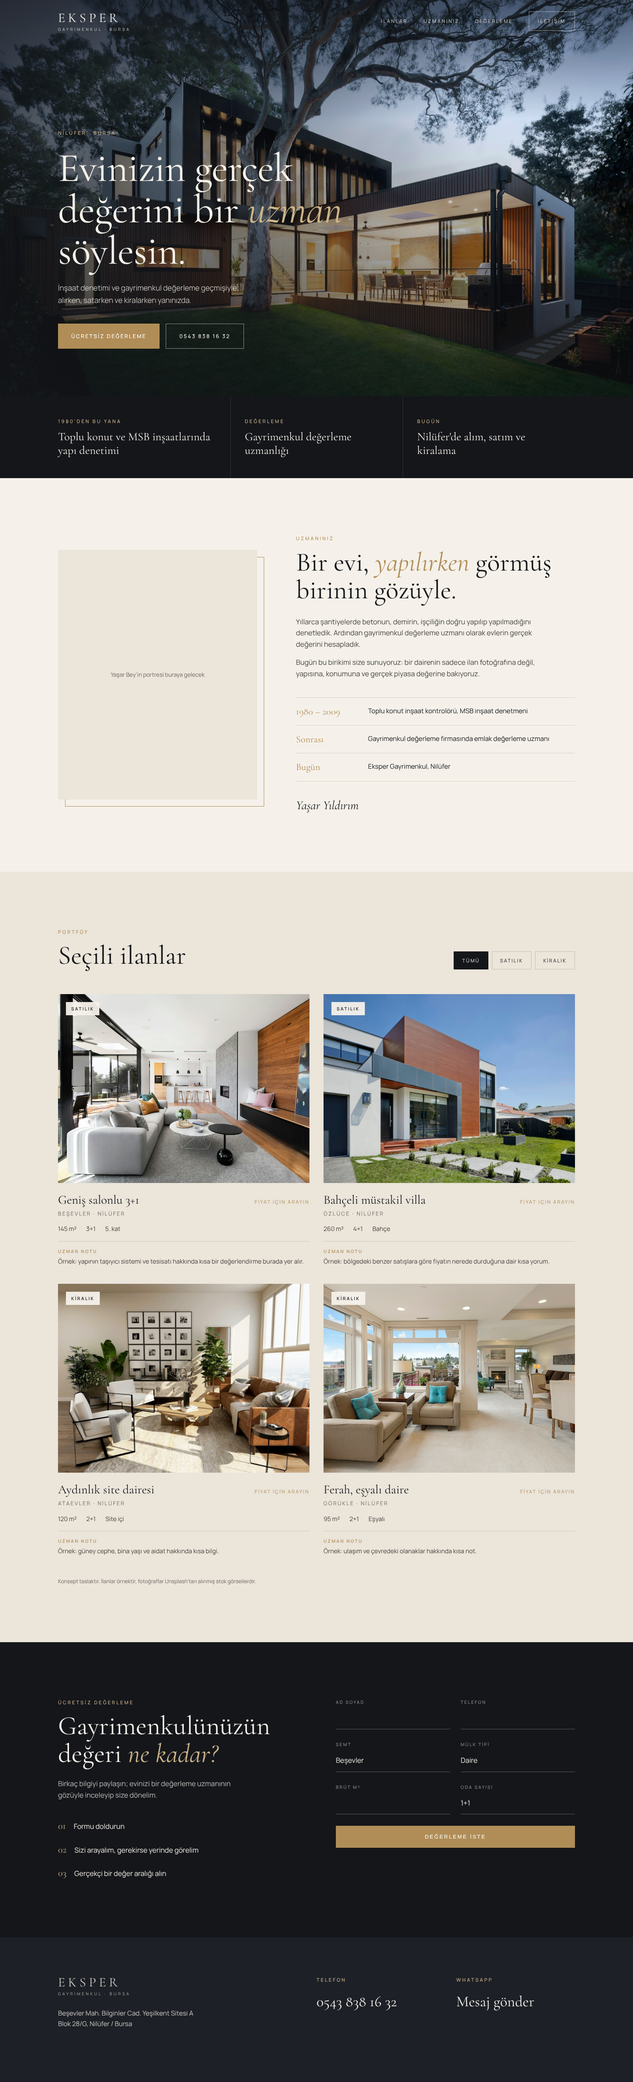
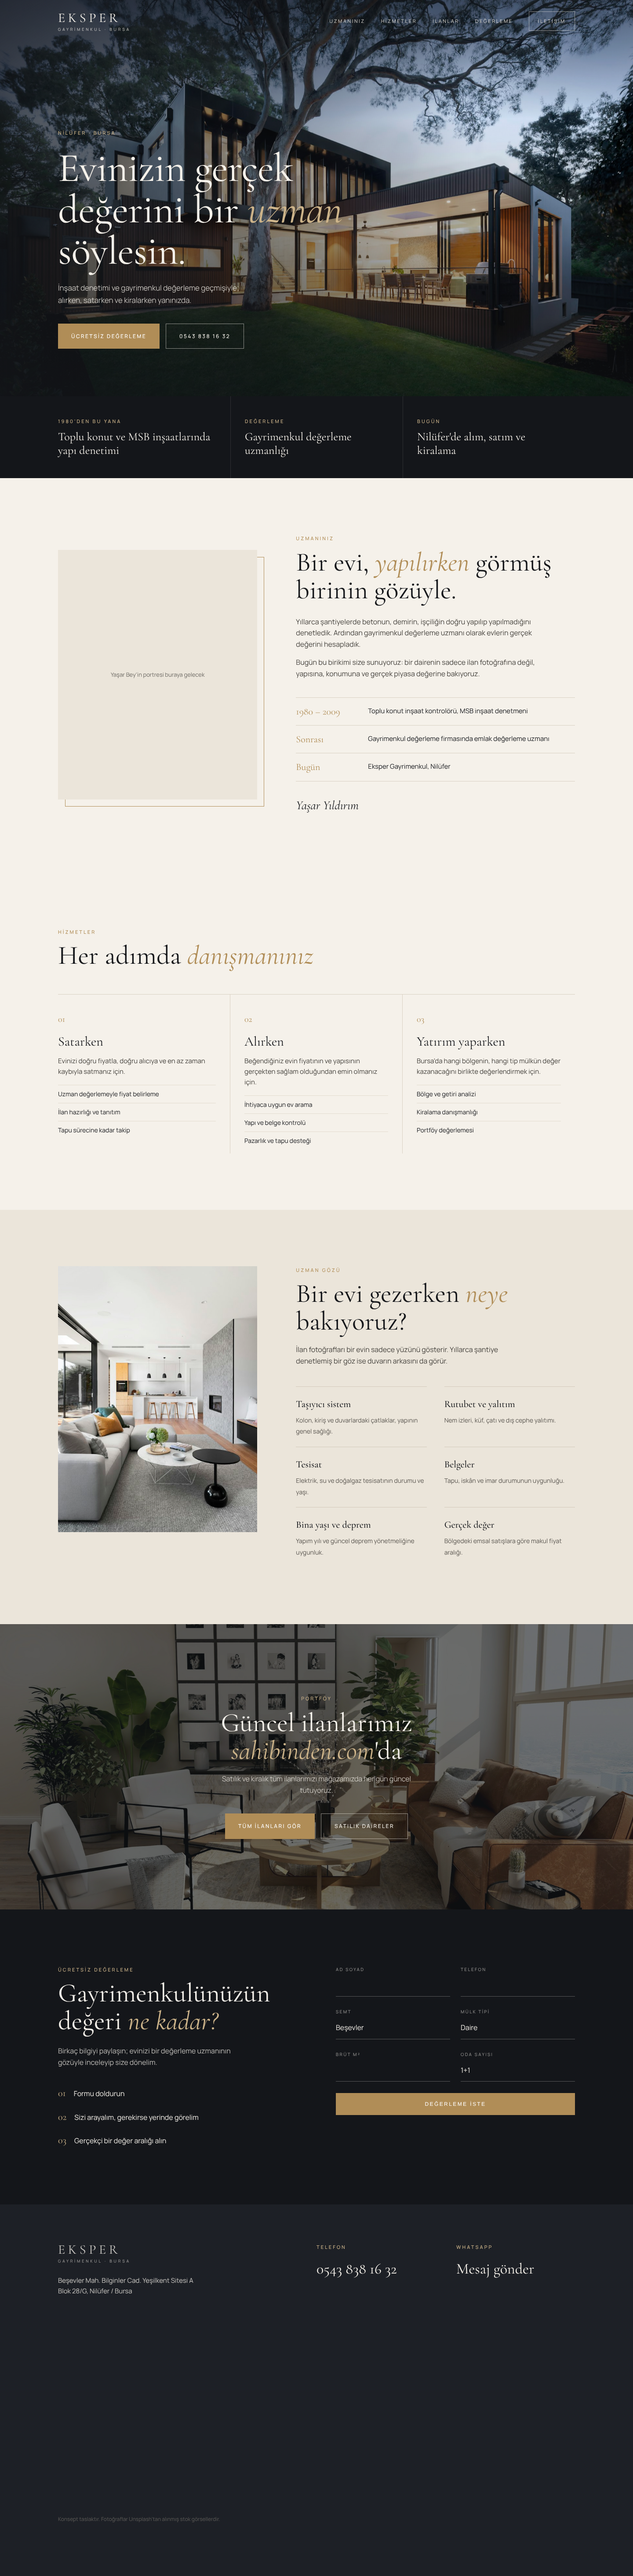
Bilgilendirme odaklı yapı: hizmetler, uzman gözü, sahibinden portföy bağlantısı, harita
Claude-Session: https://claude.ai/code/session_01RpRroQoF4BRD7ftTEzAbsX

diff --git a/index.html b/index.html
@@ -85,24 +85,40 @@
   .timeline .t { font-size: 15px; }
   .sign { font-family: var(--serif); font-style: italic; font-size: 28px; margin-top: 32px; }
 
-  /* Listings */
-  .listings { background: var(--cream-2); }
-  .filters { display: flex; gap: 8px; flex-wrap: wrap; }
-  .filters button { font: inherit; font-size: 11px; letter-spacing: .2em; text-transform: uppercase; padding: 11px 18px; background: transparent; border: 1px solid #c9bfae; color: var(--ink); cursor: pointer; transition: all .3s; }
-  .filters button.on, .filters button:hover { background: var(--ink); border-color: var(--ink); color: var(--cream); }
-  .grid { display: grid; grid-template-columns: repeat(2, 1fr); gap: 40px 32px; }
-  .card { cursor: pointer; }
-  .card .ph { overflow: hidden; aspect-ratio: 4/3; position: relative; }
-  .card img { width: 100%; height: 100%; object-fit: cover; transition: transform 1.2s cubic-bezier(.2,.7,.2,1); }
-  .card:hover img { transform: scale(1.05); }
-  .tag { position: absolute; top: 18px; left: 18px; background: rgba(245,241,234,.95); padding: 7px 12px; font-size: 10px; letter-spacing: .24em; text-transform: uppercase; font-weight: 600; }
-  .card .meta { display: flex; justify-content: space-between; align-items: baseline; margin-top: 22px; gap: 16px; }
-  .card h3 { font-family: var(--serif); font-weight: 400; font-size: 28px; line-height: 1.15; }
-  .card .price { font-size: 11px; letter-spacing: .2em; text-transform: uppercase; color: var(--gold); white-space: nowrap; }
-  .card .loc { color: var(--muted); font-size: 12px; letter-spacing: .2em; text-transform: uppercase; margin-top: 6px; }
-  .card .specs { display: flex; gap: 22px; margin-top: 14px; font-size: 14px; color: #45423d; }
-  .note { margin-top: 16px; padding-top: 14px; border-top: 1px solid #d3cabb; font-size: 14px; color: #45423d; }
-  .note b { color: var(--gold); font-weight: 600; font-size: 10px; letter-spacing: .24em; text-transform: uppercase; display: block; margin-bottom: 4px; }
+  /* Services */
+  .services .grid3 { display: grid; grid-template-columns: repeat(3, 1fr); border-top: 1px solid #d9d1c3; }
+  .svc { padding: 40px 32px 8px 0; border-right: 1px solid #d9d1c3; }
+  .svc + .svc { padding-left: 32px; }
+  .svc:last-child { border-right: 0; }
+  .svc .n { font-family: var(--serif); color: var(--gold); font-size: 20px; }
+  .svc h3 { font-family: var(--serif); font-weight: 400; font-size: 30px; line-height: 1.15; margin: 18px 0 14px; }
+  .svc p { color: #45423d; font-size: 15px; }
+  .svc ul { margin-top: 18px; }
+  .svc li { list-style: none; font-size: 14px; padding: 9px 0; border-top: 1px solid #e3dccf; }
+
+  /* Expert eye */
+  .eye { background: var(--cream-2); }
+  .eye .wrap { display: grid; grid-template-columns: 5fr 7fr; gap: 88px; align-items: start; }
+  .eye .photo { aspect-ratio: 3/4; overflow: hidden; position: sticky; top: 40px; }
+  .eye .photo img { width: 100%; height: 100%; object-fit: cover; }
+  .eye .eyebrow { color: var(--gold); }
+  .eye h2 { margin: 14px 0 20px; }
+  .eye .lead { color: #45423d; max-width: 52ch; }
+  .checks { margin-top: 44px; display: grid; grid-template-columns: 1fr 1fr; gap: 0 40px; }
+  .checks div { padding: 22px 0; border-top: 1px solid #d3cabb; }
+  .checks b { display: block; font-family: var(--serif); font-weight: 500; font-size: 22px; margin-bottom: 6px; }
+  .checks span { font-size: 14px; color: #5a5650; }
+
+  /* Portfolio CTA */
+  .portfolio { position: relative; color: var(--cream); padding: 160px 0; overflow: hidden; text-align: center; }
+  .portfolio img { position: absolute; inset: 0; width: 100%; height: 100%; object-fit: cover; }
+  .portfolio::after { content: ""; position: absolute; inset: 0; background: rgba(20,22,26,.62); }
+  .portfolio .wrap { position: relative; z-index: 1; }
+  .portfolio .eyebrow { color: var(--gold-soft); }
+  .portfolio h2 { margin: 16px auto 20px; max-width: 18ch; }
+  .portfolio h2 em { color: var(--gold-soft); }
+  .portfolio p { max-width: 50ch; margin: 0 auto; opacity: .85; font-weight: 300; }
+  .portfolio .actions { justify-content: center; }
   .demo { margin-top: 48px; font-size: 12px; color: var(--muted); }
 
   /* Valuation */
@@ -130,6 +146,8 @@
   footer p, footer a { font-size: 15px; opacity: .8; }
   footer .big { font-family: var(--serif); font-size: 34px; opacity: 1; display: block; }
 
+  .map { grid-column: 1 / -1; margin-top: 56px; aspect-ratio: 21/7; border: 0; width: 100%; filter: grayscale(1) contrast(.95); }
+
   /* Mobile bar */
   .mbar { display: none; }
 
@@ -149,9 +167,16 @@
     .about .wrap, .valuation .wrap { grid-template-columns: 1fr; gap: 56px; }
     .portrait { max-width: 420px; }
     .timeline li { grid-template-columns: 1fr; gap: 2px; }
-    .grid { grid-template-columns: 1fr; }
+    .services .grid3 { grid-template-columns: 1fr; }
+    .svc, .svc + .svc { padding: 32px 0 8px; border-right: 0; border-bottom: 1px solid #d9d1c3; }
+    .eye .wrap { grid-template-columns: 1fr; gap: 48px; }
+    .eye .photo { position: static; aspect-ratio: 4/3; }
+    .checks { grid-template-columns: 1fr; }
+    .portfolio { padding: 112px 0; }
+    .map { aspect-ratio: 4/3; }
     form { grid-template-columns: 1fr; }
     footer .wrap { grid-template-columns: 1fr; }
+    footer .demo { grid-column: 1 / -1; }
     .btn { padding: 16px 22px; flex: 1 1 100%; justify-content: center; }
     .mbar { display: grid; grid-template-columns: 1fr 1fr; position: fixed; inset: auto 0 0 0; z-index: 20; }
     .mbar a { padding: 18px; text-align: center; font-size: 12px; letter-spacing: .2em; text-transform: uppercase; font-weight: 600; }
@@ -170,8 +195,9 @@
   <div class="wrap">
     <a href="#" class="logo"><b>EKSPER</b><span>GAYRİMENKUL · BURSA</span></a>
     <nav>
-      <a href="#ilanlar">İlanlar</a>
       <a href="#hakkimizda">Uzmanınız</a>
+      <a href="#hizmetler">Hizmetler</a>
+      <a href="#ilanlar">İlanlar</a>
       <a href="#degerleme">Değerleme</a>
       <a href="#iletisim" class="btn-line">İletişim</a>
     </nav>
@@ -217,47 +243,63 @@
   </div>
 </section>
 
-<section class="listings" id="ilanlar">
+<section class="services" id="hizmetler">
   <div class="wrap">
     <div class="sec-head">
-      <div><div class="eyebrow">Portföy</div><h2>Seçili ilanlar</h2></div>
-      <div class="filters">
-        <button class="on" data-f="all">Tümü</button>
-        <button data-f="satilik">Satılık</button>
-        <button data-f="kiralik">Kiralık</button>
+      <div><div class="eyebrow">Hizmetler</div><h2>Her adımda <em>danışmanınız</em></h2></div>
+    </div>
+    <div class="grid3">
+      <div class="svc rv">
+        <div class="n">01</div>
+        <h3>Satarken</h3>
+        <p>Evinizi doğru fiyatla, doğru alıcıya ve en az zaman kaybıyla satmanız için.</p>
+        <ul><li>Uzman değerlemeyle fiyat belirleme</li><li>İlan hazırlığı ve tanıtım</li><li>Tapu sürecine kadar takip</li></ul>
+      </div>
+      <div class="svc rv">
+        <div class="n">02</div>
+        <h3>Alırken</h3>
+        <p>Beğendiğiniz evin fiyatının ve yapısının gerçekten sağlam olduğundan emin olmanız için.</p>
+        <ul><li>İhtiyaca uygun ev arama</li><li>Yapı ve belge kontrolü</li><li>Pazarlık ve tapu desteği</li></ul>
+      </div>
+      <div class="svc rv">
+        <div class="n">03</div>
+        <h3>Yatırım yaparken</h3>
+        <p>Bursa'da hangi bölgenin, hangi tip mülkün değer kazanacağını birlikte değerlendirmek için.</p>
+        <ul><li>Bölge ve getiri analizi</li><li>Kiralama danışmanlığı</li><li>Portföy değerlemesi</li></ul>
       </div>
     </div>
-    <div class="grid">
-      <article class="card rv" data-t="satilik">
-        <div class="ph"><img src="https://images.unsplash.com/photo-1600607687939-ce8a6c25118c?w=1200&q=75&fm=jpg" alt="" loading="lazy"><span class="tag">Satılık</span></div>
-        <div class="meta"><h3>Geniş salonlu 3+1</h3><span class="price">Fiyat için arayın</span></div>
-        <div class="loc">Beşevler · Nilüfer</div>
-        <div class="specs"><span>145 m²</span><span>3+1</span><span>5. kat</span></div>
-        <div class="note"><b>Uzman notu</b>Örnek: yapının taşıyıcı sistemi ve tesisatı hakkında kısa bir değerlendirme burada yer alır.</div>
-      </article>
-      <article class="card rv" data-t="satilik">
-        <div class="ph"><img src="https://images.unsplash.com/photo-1600047509807-ba8f99d2cdde?w=1200&q=75&fm=jpg" alt="" loading="lazy"><span class="tag">Satılık</span></div>
-        <div class="meta"><h3>Bahçeli müstakil villa</h3><span class="price">Fiyat için arayın</span></div>
-        <div class="loc">Özlüce · Nilüfer</div>
-        <div class="specs"><span>260 m²</span><span>4+1</span><span>Bahçe</span></div>
-        <div class="note"><b>Uzman notu</b>Örnek: bölgedeki benzer satışlara göre fiyatın nerede durduğuna dair kısa yorum.</div>
-      </article>
-      <article class="card rv" data-t="kiralik">
-        <div class="ph"><img src="https://images.unsplash.com/photo-1600210492486-724fe5c67fb0?w=1200&q=75&fm=jpg" alt="" loading="lazy"><span class="tag">Kiralık</span></div>
-        <div class="meta"><h3>Aydınlık site dairesi</h3><span class="price">Fiyat için arayın</span></div>
-        <div class="loc">Ataevler · Nilüfer</div>
-        <div class="specs"><span>120 m²</span><span>2+1</span><span>Site içi</span></div>
-        <div class="note"><b>Uzman notu</b>Örnek: güney cephe, bina yaşı ve aidat hakkında kısa bilgi.</div>
-      </article>
-      <article class="card rv" data-t="kiralik">
-        <div class="ph"><img src="https://images.unsplash.com/photo-1560448204-e02f11c3d0e2?w=1200&q=75&fm=jpg" alt="" loading="lazy"><span class="tag">Kiralık</span></div>
-        <div class="meta"><h3>Ferah, eşyalı daire</h3><span class="price">Fiyat için arayın</span></div>
-        <div class="loc">Görükle · Nilüfer</div>
-        <div class="specs"><span>95 m²</span><span>2+1</span><span>Eşyalı</span></div>
-        <div class="note"><b>Uzman notu</b>Örnek: ulaşım ve çevredeki olanaklar hakkında kısa not.</div>
-      </article>
+  </div>
+</section>
+
+<section class="eye">
+  <div class="wrap">
+    <div class="photo rv"><img src="https://images.unsplash.com/photo-1600607687939-ce8a6c25118c?w=1200&q=75&fm=jpg" alt="" loading="lazy"></div>
+    <div class="rv">
+      <div class="eyebrow">Uzman gözü</div>
+      <h2>Bir evi gezerken <em>neye</em> bakıyoruz?</h2>
+      <p class="lead">İlan fotoğrafları bir evin sadece yüzünü gösterir. Yıllarca şantiye denetlemiş bir göz ise duvarın arkasını da görür.</p>
+      <div class="checks">
+        <div><b>Taşıyıcı sistem</b><span>Kolon, kiriş ve duvarlardaki çatlaklar, yapının genel sağlığı.</span></div>
+        <div><b>Rutubet ve yalıtım</b><span>Nem izleri, küf, çatı ve dış cephe yalıtımı.</span></div>
+        <div><b>Tesisat</b><span>Elektrik, su ve doğalgaz tesisatının durumu ve yaşı.</span></div>
+        <div><b>Belgeler</b><span>Tapu, iskân ve imar durumunun uygunluğu.</span></div>
+        <div><b>Bina yaşı ve deprem</b><span>Yapım yılı ve güncel deprem yönetmeliğine uygunluk.</span></div>
+        <div><b>Gerçek değer</b><span>Bölgedeki emsal satışlara göre makul fiyat aralığı.</span></div>
+      </div>
     </div>
-    <p class="demo">Konsept taslaktır. İlanlar örnektir, fotoğraflar Unsplash'tan alınmış stok görsellerdir.</p>
+  </div>
+</section>
+
+<section class="portfolio" id="ilanlar">
+  <img src="https://images.unsplash.com/photo-1600210492486-724fe5c67fb0?w=2000&q=75&fm=jpg" alt="" loading="lazy">
+  <div class="wrap rv">
+    <div class="eyebrow">Portföy</div>
+    <h2>Güncel ilanlarımız <em>sahibinden.com</em>'da</h2>
+    <p>Satılık ve kiralık tüm ilanlarımızı mağazamızda her gün güncel tutuyoruz.</p>
+    <div class="actions">
+      <a href="https://bursaeksperemlak.sahibinden.com/emlak?sorting=date_desc" target="_blank" rel="noopener" class="btn btn-gold">Tüm İlanları Gör</a>
+      <a href="https://bursaeksperemlak.sahibinden.com/satilik-daire?sorting=storeShowcase" target="_blank" rel="noopener" class="btn btn-ghost">Satılık Daireler</a>
+    </div>
   </div>
 </section>
 
@@ -294,6 +336,8 @@
     <div><span class="eyebrow">Telefon</span><a class="big" href="tel:+905438381632">0543 838 16 32</a></div>
     <div><span class="eyebrow">WhatsApp</span><a class="big" href="https://wa.me/905438381632">Mesaj gönder</a></div>
   </div>
+  <div class="wrap"><iframe class="map" src="https://maps.google.com/maps?q=40.2085422,28.976028&z=15&output=embed" loading="lazy" title="Ofis konumu"></iframe></div>
+  <div class="wrap"><p class="demo" style="grid-column:1/-1">Konsept taslaktır. Fotoğraflar Unsplash'tan alınmış stok görsellerdir.</p></div>
 </footer>
 
 <div class="mbar">
@@ -305,10 +349,6 @@
   const io = new IntersectionObserver(es => es.forEach(e => { if (e.isIntersecting) { e.target.classList.add('in'); io.unobserve(e.target); } }), { threshold: .12 });
   document.querySelectorAll('.rv').forEach(el => io.observe(el));
 
-  document.querySelectorAll('.filters button').forEach(b => b.addEventListener('click', () => {
-    document.querySelectorAll('.filters button').forEach(x => x.classList.toggle('on', x === b));
-    document.querySelectorAll('.card').forEach(c => c.style.display = (b.dataset.f === 'all' || c.dataset.t === b.dataset.f) ? '' : 'none');
-  }));
 </script>
 </body>
 </html>
